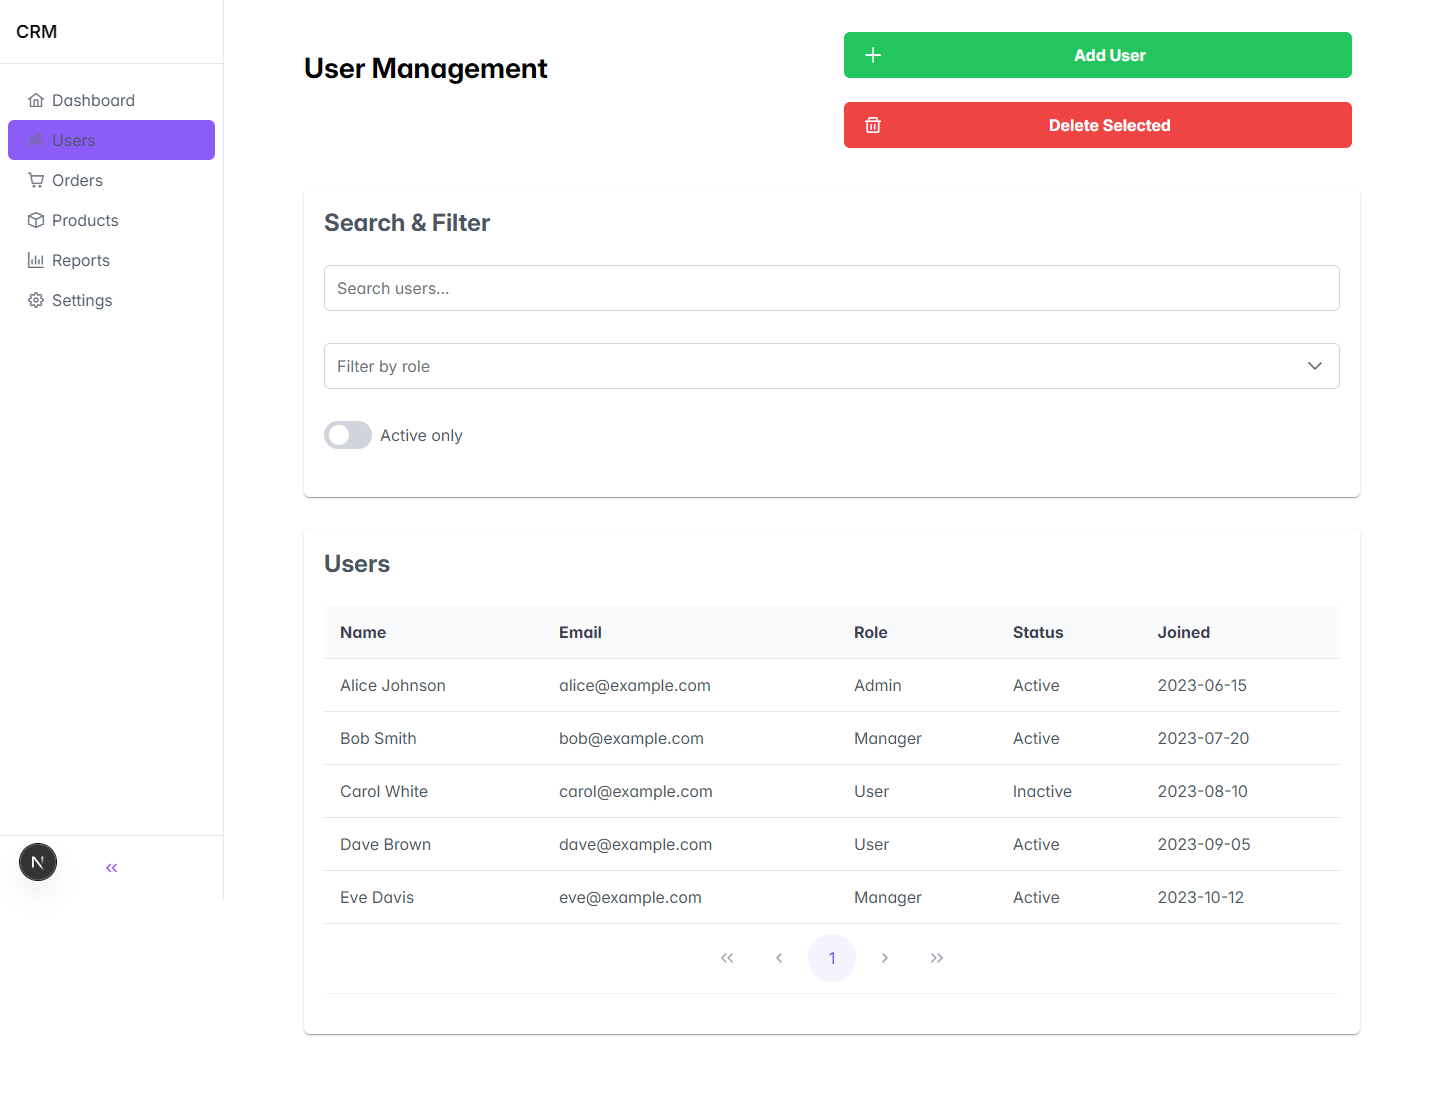
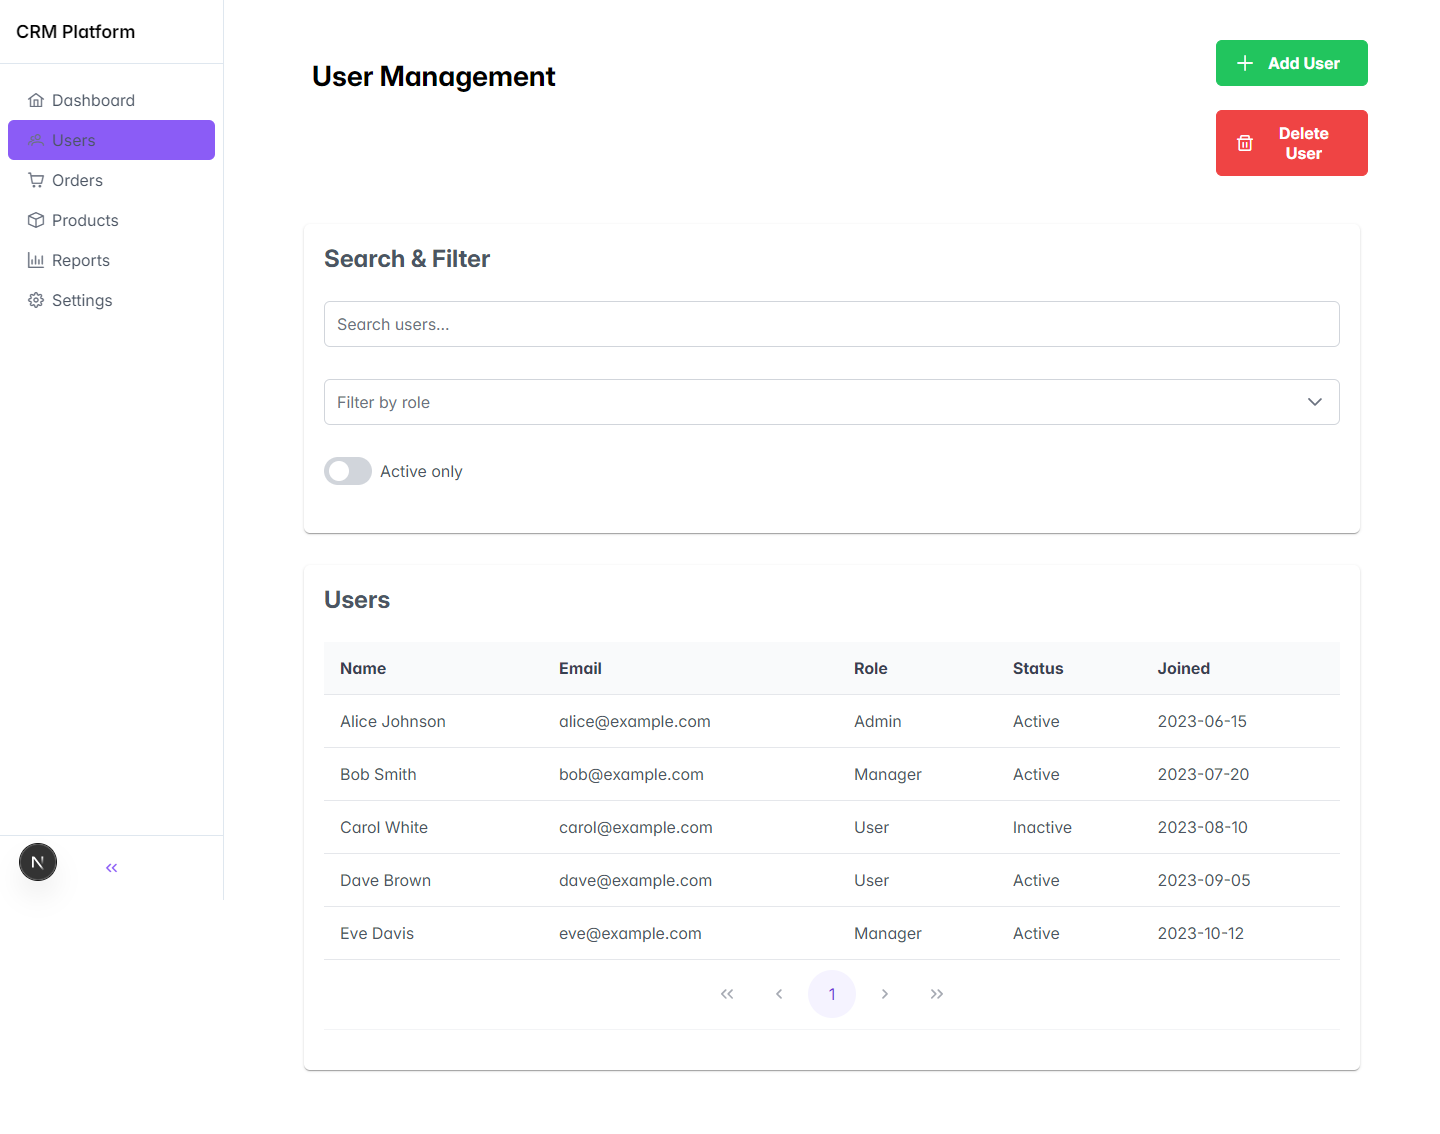
feat: add title, mobile header, and user menu to sidebar

diff --git a/src/engine/DashboardSidebar.tsx b/src/engine/DashboardSidebar.tsx
@@ -1,11 +1,12 @@
 "use client";
 
-import React, { useState, useCallback } from "react";
+import React, { useState, useCallback, useRef } from "react";
 import { useRouter, usePathname } from "next/navigation";
-import { NavItem } from "@/types";
+import { NavItem, UserMenuConfig } from "@/types";
 import { Menu } from "primereact/menu";
 import { Sidebar } from "primereact/sidebar";
 import { Button } from "primereact/button";
+import type { Menu as MenuType } from "primereact/menu";
 
 function buildMenuItems(
   items: NavItem[],
@@ -18,22 +19,36 @@ function buildMenuItems(
       label: item.label,
       icon: item.icon,
       command: () => onNavigate(item.route),
-      className: "border-round-lg overflow-hidden",
+      className: "p-menuitem-list",
       style: active
         ? {
-            background: "var(--highlight-bg)",
-            color: "var(--highlight-text-color)",
+            background: "var(--primary-color)",
+            color: "var(--primary-color-text)",
+            borderRadius: "6px",
           }
         : undefined,
     };
   });
 }
 
-export function DashboardSidebar({ items }: { items: NavItem[] }) {
+interface DashboardSidebarProps {
+  items: NavItem[];
+  title: string;
+  userMenu?: UserMenuConfig;
+  isAuthenticated: boolean;
+}
+
+export function DashboardSidebar({
+  items,
+  title,
+  userMenu,
+  isAuthenticated,
+}: DashboardSidebarProps) {
   const router = useRouter();
   const pathname = usePathname() || "/";
   const [collapsed, setCollapsed] = useState(false);
   const [mobileOpen, setMobileOpen] = useState(false);
+  const userMenuRef = useRef<MenuType>(null);
 
   const handleNav = useCallback(
     (route: string) => {
@@ -43,29 +58,97 @@ export function DashboardSidebar({ items }: { items: NavItem[] }) {
     [router],
   );
 
+  const handleAuthClick = useCallback(() => {
+    router.push(isAuthenticated ? "/profile" : "/login");
+  }, [isAuthenticated, router]);
+
+  const handleLogout = useCallback(() => {
+    router.push("/");
+  }, [router]);
+
   const menuItems = buildMenuItems(items, pathname, handleNav);
+
+  // Desktop user popup items
+  const desktopUserItems: any[] =
+    userMenu?.items.map((item) => ({
+      label: item.label,
+      icon: item.icon,
+      command: () => handleNav(item.route),
+    })) || [];
+
+  if (isAuthenticated && userMenu) {
+    desktopUserItems.push(
+      { separator: true },
+      {
+        label: userMenu.logoutLabel,
+        icon: "pi pi-sign-out",
+        command: handleLogout,
+      },
+    );
+  }
 
   return (
     <>
-      {/* Mobile hamburger */}
-      <Button
-        icon="pi pi-bars"
-        className="p-button-rounded p-button-text p-button-secondary md:hidden fixed top-3 left-3 z-5"
-        onClick={() => setMobileOpen(true)}
-        aria-label="Menu"
-      />
+      {/* Mobile Header */}
+      <header
+        className="md:hidden fixed top-0 left-0 right-0 h-4rem flex align-items-center justify-content-between px-3 z-5 surface-overlay"
+        style={{ borderBottom: "1px solid var(--surface-border)" }}
+      >
+        <Button
+          icon="pi pi-bars"
+          className="p-button-rounded p-button-text p-button-secondary"
+          onClick={() => setMobileOpen(true)}
+          aria-label="Menu"
+        />
+        <span className="font-semibold text-lg">{title}</span>
+        <Button
+          icon={isAuthenticated ? "pi pi-user" : "pi pi-sign-in"}
+          className="p-button-rounded p-button-text p-button-secondary"
+          onClick={handleAuthClick}
+          aria-label={isAuthenticated ? "Profile" : "Login"}
+        />
+      </header>
 
-      {/* Mobile sidebar */}
+      {/* Mobile Sidebar */}
       <Sidebar
         visible={mobileOpen}
         onHide={() => setMobileOpen(false)}
         position="left"
         className="w-16rem"
+        blockScroll
       >
-        <Menu model={menuItems} className="border-none w-full" />
+        <div className="flex align-items-center justify-content-between mb-4">
+          <h3 className="text-xl font-semibold m-0">{title}</h3>
+          <Button
+            icon="pi pi-times"
+            className="p-button-rounded p-button-text p-button-sm"
+            onClick={() => setMobileOpen(false)}
+          />
+        </div>
+        <Menu model={menuItems} className="border-none w-full mb-4" />
+
+        {userMenu && (
+          <div
+            className="border-top border-200 pt-3"
+            style={{ borderTop: "1px solid var(--surface-border)" }}
+          >
+            {isAuthenticated
+              ? userMenu.items.map((item) => (
+                  <button
+                    key={item.route}
+                    className="flex align-items-center gap-3 w-full px-3 py-2 border-round-md cursor-pointer text-500 hover:surface-hover bg-transparent border-none"
+                    onClick={() => handleNav(item.route)}
+                  >
+                    <i className={item.icon}></i>
+                    <span>{item.label}</span>
+                  </button>
+                ))
+              : null}
+          </div>
+        )}
       </Sidebar>
 
-      {/* Desktop sidebar */}
+      {/* Desktop Sidebar */}
       <aside
         className={`hidden md:flex flex-column h-screen surface-overlay sticky top-0 transition-all transition-duration-300 ${
           collapsed ? "w-4rem" : "w-14rem"
@@ -78,7 +161,7 @@ export function DashboardSidebar({ items }: { items: NavItem[] }) {
         >
           {!collapsed && (
             <span className="font-semibold text-lg overflow-hidden text-ellipsis white-space-nowrap">
-              CRM
+              {title}
             </span>
           )}
         </div>
@@ -95,6 +178,36 @@ export function DashboardSidebar({ items }: { items: NavItem[] }) {
           className="p-2"
           style={{ borderTop: "1px solid var(--surface-border)" }}
         >
+          {userMenu && (
+            <div className="relative mb-1">
+              {isAuthenticated && (
+                <Menu
+                  model={desktopUserItems}
+                  popup
+                  ref={userMenuRef}
+                  className="w-12rem"
+                  appendTo="self"
+                />
+              )}
+              <Button
+                icon={isAuthenticated ? "pi pi-user" : "pi pi-sign-in"}
+                label={
+                  !collapsed
+                    ? isAuthenticated
+                      ? userMenu.profileLabel
+                      : userMenu.loginLabel
+                    : undefined
+                }
+                className={`p-button-text p-button-sm p-button-rounded w-full ${
+                  collapsed ? "justify-content-center" : ""
+                }`}
+                onClick={(e) => {
+                  if (isAuthenticated) userMenuRef.current?.toggle(e);
+                  else handleAuthClick();
+                }}
+              />
+            </div>
+          )}
           <Button
             icon={
               collapsed ? "pi pi-angle-double-right" : "pi pi-angle-double-left"
@@ -104,6 +217,9 @@ export function DashboardSidebar({ items }: { items: NavItem[] }) {
           />
         </div>
       </aside>
+
+      {/* Mobile header spacer */}
+      <div className="md:hidden h-4rem w-full flex-shrink-0" />
     </>
   );
 }

diff --git a/src/engine/AppEngine.tsx b/src/engine/AppEngine.tsx
@@ -55,10 +55,18 @@ export function AppEngine({ config }: { config: App }) {
   }
 
   const navItems: NavItem[] = config.navbar?.items || [];
+  const isAuthenticated = config.globalState?.auth?.isAuthenticated || false;
 
   return (
     <div className="flex min-h-screen surface-900">
-      {navItems.length > 0 && <DashboardSidebar items={navItems} />}
+      {navItems.length > 0 && (
+        <DashboardSidebar
+          items={navItems}
+          title={config.title || "CRM Platform"}
+          userMenu={config.userMenu}
+          isAuthenticated={isAuthenticated}
+        />
+      )}
       <main className="flex-1 overflow-auto">
         <div className="px-4 py-5 md:px-6 lg:px-8 max-w-screen-xl mx-auto">
           <PageRenderer key={currentPage.id} page={currentPage} />

diff --git a/src/types/app.ts b/src/types/app.ts
@@ -31,10 +31,27 @@ export interface NavbarConfig {
 /** Приложение - корневой элемент */
 export interface App extends BaseElement {
   type: "app";
+  title?: string;
   pages: PageStub[];
   navbar?: NavbarConfig;
+  userMenu?: UserMenuConfig;
   globalState: GlobalState;
   config: AppConfig;
+}
+
+/** Пункт меню пользователя */
+export interface UserMenuItem {
+  label: string;
+  icon: string;
+  route: string;
+}
+
+/** Конфигурация меню пользователя */
+export interface UserMenuConfig {
+  loginLabel: string;
+  profileLabel: string;
+  logoutLabel: string;
+  items: UserMenuItem[];
 }
 
 /** Глобальное состояние */
